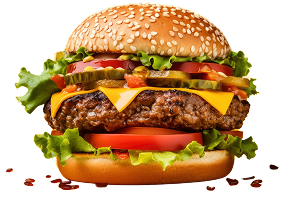
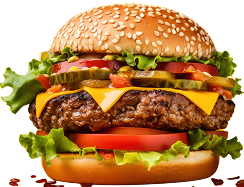
changes

diff --git a/Burger/index.html b/Burger/index.html
@@ -68,27 +68,85 @@
     <div class="container">
       <div class="row">
 
-        <div class="col-12 text-center">
+        <div class="col-12 text-center mb-4 d-flex flex-column gap-3">
           <div class="hot-items-heading text-uppercase">-- Hot Items --</div>
           <div class="hot-items-subheading text-uppercase">Locally sourced, organic ingredients for a fresh and
             eco-friendly experience</div>
         </div>
 
-        <div class="col-3">
-          <div class="p-background">
-            <img src="aseets/images/products/1.png" alt="">
+        <div class="col-lg-3 col-md-6 col-12 pt-3  d-flex justify-content-center">
+          
+          <div class="p-background d-flex flex-column gap-3 position-relative ">
+            <i class="bi bi-heart position-absolute top-0 end-0 m-3"></i>
+
+            <img class="pt-3" src="aseets/images/products/1.png" alt="">
             <div>Veg crispy burger</div>
             <div class="d-flex justify-content-between">
               <div>₹250.00</div>
               <i class="bi bi-bag"></i>
             </div>
+            <div class="d-flex justify-content-end pt-3">
+              <i class="bi bi-arrow-right"></i>
+            </div>
           </div>
         </div>
+
+        <div class="col-lg-3 col-md-6 col-12 pt-3   d-flex justify-content-center">
+          
+          <div class="p-background d-flex flex-column gap-3 position-relative ">
+            <i class="bi bi-heart position-absolute top-0 end-0 m-3"></i>
+
+            <img class="pt-3" src="aseets/images/products/2.png" alt="">
+            <div>Veg crispy burger</div>
+            <div class="d-flex justify-content-between">
+              <div>₹250.00</div>
+              <i class="bi bi-bag"></i>
+            </div>
+            <div class="d-flex justify-content-end pt-3">
+              <i class="bi bi-arrow-right"></i>
+            </div>
+          </div>
+        </div>
+
+        <div class="col-lg-3 col-md-6 col-12 pt-3   d-flex justify-content-center">
+          
+          <div class="p-background d-flex flex-column gap-3 position-relative ">
+            <i class="bi bi-heart position-absolute top-0 end-0 m-3"></i>
+
+            <img class="pt-3" src="aseets/images/products/3.png" alt="">
+            <div>Veg crispy burger</div>
+            <div class="d-flex justify-content-between">
+              <div>₹250.00</div>
+              <i class="bi bi-bag"></i>
+            </div>
+            <div class="d-flex justify-content-end pt-3">
+              <i class="bi bi-arrow-right"></i>
+            </div>
+          </div>
+        </div>
+
+        <div class="col-lg-3 col-md-6 col-12 pt-3   d-flex justify-content-center">
+          
+          <div class="p-background d-flex flex-column gap-3 position-relative ">
+            <i class="bi bi-heart position-absolute top-0 end-0 m-3"></i>
+
+            <img class="pt-3" src="aseets/images/products/4.png" alt="">
+            <div>Veg crispy burger</div>
+            <div class="d-flex justify-content-between">
+              <div>₹250.00</div>
+              <i class="bi bi-bag"></i>
+            </div>
+            <div class="d-flex justify-content-end pt-3">
+              <i class="bi bi-arrow-right"></i>
+            </div>
+          </div>
+        </div>
+
+        
 
       </div>
     </div>
   </section>
-
 
   
 

diff --git a/Burger/aseets/css/style.css b/Burger/aseets/css/style.css
@@ -87,9 +87,23 @@ body {
 }
 .p-background{
     background-image: url("../images/products/product_card.png");
-    background-size: contain;
+    background-size: 100% 100%;
     background-repeat: no-repeat;
+    height: 350px;
+    padding-left: 2rem;
+    padding-right: 2rem;
 }
+.p-background div , .p-background i{
+    color: var(--text-h1-color);
+    font-size: 1.2rem;
+    font-weight: 400;
+}
+.p-background img{
+    width: 220px;
+    filter: drop-shadow(5px 5px 10px #292929b4);
+}
+
+
 
 
 @media (min-width : 576px) {